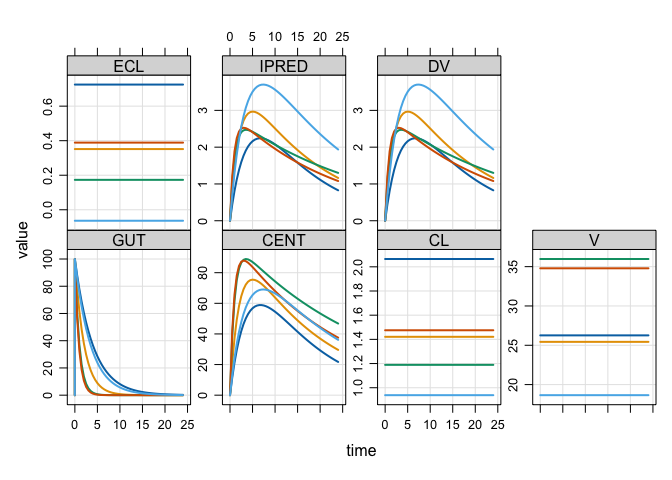
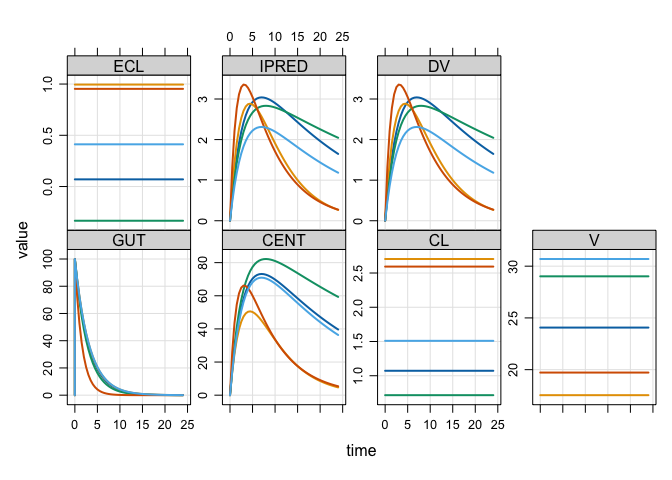
readme

diff --git a/README.md b/README.md
@@ -42,14 +42,14 @@ out
 . Dim  : 50,000 9
 . Files: 1 [1.9 Mb]
 .     ID time       GUT     CENT       CL        V       ECL     IPRED        DV
-. 1:   1  0.0   0.00000  0.00000 2.064612 26.25991 0.7249425 0.0000000 0.0000000
-. 2:   1  0.0 100.00000  0.00000 2.064612 26.25991 0.7249425 0.0000000 0.0000000
-. 3:   1  0.5  88.21274 11.55383 2.064612 26.25991 0.7249425 0.4399798 0.4399798
-. 4:   1  1.0  77.81488 21.30040 2.064612 26.25991 0.7249425 0.8111376 0.8111376
-. 5:   1  1.5  68.64264 29.46990 2.064612 26.25991 0.7249425 1.1222393 1.1222393
-. 6:   1  2.0  60.55156 36.26473 2.064612 26.25991 0.7249425 1.3809925 1.3809925
-. 7:   1  2.5  53.41419 41.86281 2.064612 26.25991 0.7249425 1.5941720 1.5941720
-. 8:   1  3.0  47.11812 46.42045 2.064612 26.25991 0.7249425 1.7677308 1.7677308
+. 1:   1  0.0   0.00000  0.00000 1.072391 24.06577 0.0698906 0.0000000 0.0000000
+. 2:   1  0.0 100.00000  0.00000 1.072391 24.06577 0.0698906 0.0000000 0.0000000
+. 3:   1  0.5  84.78394 15.04319 1.072391 24.06577 0.0698906 0.6250866 0.6250866
+. 4:   1  1.0  71.88317 27.46594 1.072391 24.06577 0.0698906 1.1412864 1.1412864
+. 5:   1  1.5  60.94538 37.67428 1.072391 24.06577 0.0698906 1.5654713 1.5654713
+. 6:   1  2.0  51.67190 46.01229 1.072391 24.06577 0.0698906 1.9119390 1.9119390
+. 7:   1  2.5  43.80947 52.77156 1.072391 24.06577 0.0698906 2.1928054 2.1928054
+. 8:   1  3.0  37.14339 58.19913 1.072391 24.06577 0.0698906 2.4183361 2.4183361
 ```
 
 The output object doesn’t actually carry the simulated data, but rather
@@ -57,7 +57,7 @@ a pointer to the data in parquet files on your disk.
 
 ``` r
 out$files
-. [1] "/private/var/folders/zv/v6tkdhrn1_bb1ndrc0c0j31w0000gp/T/Rtmp84CDe9/mrgsims-ds-74a86ffd2ab7.parquet"
+. [1] "/private/var/folders/zv/v6tkdhrn1_bb1ndrc0c0j31w0000gp/T/RtmpwbZdoE/mrgsims-ds-764077a82b63.parquet"
 ```
 
 But, we can do a lot of the typical things we would with any mrgsim
@@ -72,24 +72,24 @@ plot(out)
 ``` r
 head(out)
 . # A tibble: 6 × 9
-.      ID  time   GUT  CENT    CL     V   ECL IPRED    DV
-.   <dbl> <dbl> <dbl> <dbl> <dbl> <dbl> <dbl> <dbl> <dbl>
-. 1     1   0     0     0    2.06  26.3 0.725 0     0    
-. 2     1   0   100     0    2.06  26.3 0.725 0     0    
-. 3     1   0.5  88.2  11.6  2.06  26.3 0.725 0.440 0.440
-. 4     1   1    77.8  21.3  2.06  26.3 0.725 0.811 0.811
-. 5     1   1.5  68.6  29.5  2.06  26.3 0.725 1.12  1.12 
-. 6     1   2    60.6  36.3  2.06  26.3 0.725 1.38  1.38
+.      ID  time   GUT  CENT    CL     V    ECL IPRED    DV
+.   <dbl> <dbl> <dbl> <dbl> <dbl> <dbl>  <dbl> <dbl> <dbl>
+. 1     1   0     0     0    1.07  24.1 0.0699 0     0    
+. 2     1   0   100     0    1.07  24.1 0.0699 0     0    
+. 3     1   0.5  84.8  15.0  1.07  24.1 0.0699 0.625 0.625
+. 4     1   1    71.9  27.5  1.07  24.1 0.0699 1.14  1.14 
+. 5     1   1.5  60.9  37.7  1.07  24.1 0.0699 1.57  1.57 
+. 6     1   2    51.7  46.0  1.07  24.1 0.0699 1.91  1.91
 tail(out)
 . # A tibble: 6 × 9
-.      ID  time      GUT  CENT    CL     V    ECL IPRED    DV
-.   <dbl> <dbl>    <dbl> <dbl> <dbl> <dbl>  <dbl> <dbl> <dbl>
-. 1  1000  21.5 1.08e-10  56.5 0.842  30.5 -0.172  1.85  1.85
-. 2  1000  22   5.70e-11  55.7 0.842  30.5 -0.172  1.82  1.82
-. 3  1000  22.5 3.00e-11  55.0 0.842  30.5 -0.172  1.80  1.80
-. 4  1000  23   1.58e-11  54.2 0.842  30.5 -0.172  1.77  1.77
-. 5  1000  23.5 8.33e-12  53.5 0.842  30.5 -0.172  1.75  1.75
-. 6  1000  24   4.39e-12  52.7 0.842  30.5 -0.172  1.73  1.73
+.      ID  time      GUT  CENT    CL     V   ECL IPRED    DV
+.   <dbl> <dbl>    <dbl> <dbl> <dbl> <dbl> <dbl> <dbl> <dbl>
+. 1  1000  21.5 2.93e- 9  75.5 0.227  16.6 -1.48  4.53  4.53
+. 2  1000  22   1.67e- 9  75.0 0.227  16.6 -1.48  4.50  4.50
+. 3  1000  22.5 9.48e-10  74.4 0.227  16.6 -1.48  4.47  4.47
+. 4  1000  23   5.39e-10  73.9 0.227  16.6 -1.48  4.44  4.44
+. 5  1000  23.5 3.07e-10  73.4 0.227  16.6 -1.48  4.41  4.41
+. 6  1000  24   1.75e-10  72.9 0.227  16.6 -1.48  4.38  4.38
 dim(out)
 . [1] 50000     9
 ```
@@ -100,18 +100,18 @@ usual R data frames
 ``` r
 as_tibble(out)
 . # A tibble: 50,000 × 9
-.       ID  time   GUT  CENT    CL     V   ECL IPRED    DV
-.    <dbl> <dbl> <dbl> <dbl> <dbl> <dbl> <dbl> <dbl> <dbl>
-.  1     1   0     0     0    2.06  26.3 0.725 0     0    
-.  2     1   0   100     0    2.06  26.3 0.725 0     0    
-.  3     1   0.5  88.2  11.6  2.06  26.3 0.725 0.440 0.440
-.  4     1   1    77.8  21.3  2.06  26.3 0.725 0.811 0.811
-.  5     1   1.5  68.6  29.5  2.06  26.3 0.725 1.12  1.12 
-.  6     1   2    60.6  36.3  2.06  26.3 0.725 1.38  1.38 
-.  7     1   2.5  53.4  41.9  2.06  26.3 0.725 1.59  1.59 
-.  8     1   3    47.1  46.4  2.06  26.3 0.725 1.77  1.77 
-.  9     1   3.5  41.6  50.1  2.06  26.3 0.725 1.91  1.91 
-. 10     1   4    36.7  52.9  2.06  26.3 0.725 2.02  2.02 
+.       ID  time   GUT  CENT    CL     V    ECL IPRED    DV
+.    <dbl> <dbl> <dbl> <dbl> <dbl> <dbl>  <dbl> <dbl> <dbl>
+.  1     1   0     0     0    1.07  24.1 0.0699 0     0    
+.  2     1   0   100     0    1.07  24.1 0.0699 0     0    
+.  3     1   0.5  84.8  15.0  1.07  24.1 0.0699 0.625 0.625
+.  4     1   1    71.9  27.5  1.07  24.1 0.0699 1.14  1.14 
+.  5     1   1.5  60.9  37.7  1.07  24.1 0.0699 1.57  1.57 
+.  6     1   2    51.7  46.0  1.07  24.1 0.0699 1.91  1.91 
+.  7     1   2.5  43.8  52.8  1.07  24.1 0.0699 2.19  2.19 
+.  8     1   3    37.1  58.2  1.07  24.1 0.0699 2.42  2.42 
+.  9     1   3.5  31.5  62.5  1.07  24.1 0.0699 2.60  2.60 
+. 10     1   4    26.7  65.9  1.07  24.1 0.0699 2.74  2.74 
 . # ℹ 49,990 more rows
 ```
 
@@ -158,15 +158,15 @@ collect(dd)
 .     time Median
 .    <dbl>  <dbl>
 .  1   0    0    
-.  2   0.5  0.926
-.  3   1    1.59 
-.  4   1.5  2.07 
-.  5   2    2.43 
-.  6   2.5  2.69 
-.  7   3    2.85 
-.  8   3.5  2.94 
-.  9  16.5  2.13 
-. 10  17.5  2.05 
+.  2   0.5  0.885
+.  3   1    1.55 
+.  4   1.5  2.04 
+.  5   2    2.38 
+.  6   2.5  2.61 
+.  7   3    2.76 
+.  8   3.5  2.87 
+.  9  16.5  2.10 
+. 10  17.5  2.01 
 . # ℹ 39 more rows
 ```
 
@@ -189,15 +189,15 @@ out2
 . Model: popex
 . Dim  : 500.0K 9
 . Files: 10 [18.9 Mb]
-.     ID time       GUT     CENT        CL        V        ECL    IPRED       DV
-. 1:   1  0.0   0.00000  0.00000 0.7738041 20.88353 -0.2564365 0.000000 0.000000
-. 2:   1  0.0 100.00000  0.00000 0.7738041 20.88353 -0.2564365 0.000000 0.000000
-. 3:   1  0.5  85.17372 14.68615 0.7738041 20.88353 -0.2564365 0.703241 0.703241
-. 4:   1  1.0  72.54562 26.92531 0.7738041 20.88353 -0.2564365 1.289309 1.289309
-. 5:   1  1.5  61.78980 37.08523 0.7738041 20.88353 -0.2564365 1.775812 1.775812
-. 6:   1  2.0  52.62867 45.47903 0.7738041 20.88353 -0.2564365 2.177747 2.177747
-. 7:   1  2.5  44.82579 52.37334 0.7738041 20.88353 -0.2564365 2.507878 2.507878
-. 8:   1  3.0  38.17979 57.99515 0.7738041 20.88353 -0.2564365 2.777077 2.777077
+.     ID time       GUT     CENT       CL        V       ECL    IPRED       DV
+. 1:   1  0.0   0.00000  0.00000 1.323299 15.42988 0.2801279 0.000000 0.000000
+. 2:   1  0.0 100.00000  0.00000 1.323299 15.42988 0.2801279 0.000000 0.000000
+. 3:   1  0.5  70.76088 28.58579 1.323299 15.42988 0.2801279 1.852625 1.852625
+. 4:   1  1.0  50.07102 47.61347 1.323299 15.42988 0.2801279 3.085796 3.085796
+. 5:   1  1.5  35.43069 59.92811 1.323299 15.42988 0.2801279 3.883899 3.883899
+. 6:   1  2.0  25.07107 67.54079 1.323299 15.42988 0.2801279 4.377272 4.377272
+. 7:   1  2.5  17.74051 71.87256 1.323299 15.42988 0.2801279 4.658010 4.658010
+. 8:   1  3.0  12.55334 73.92700 1.323299 15.42988 0.2801279 4.791157 4.791157
 ```
 
 All arrow files are stored in the tempdir in parquet format
@@ -205,11 +205,11 @@ All arrow files are stored in the tempdir in parquet format
 ``` r
 list_temp()
 . 11 files [20.8 Mb]
-. - mrgsims-ds-74a86ffd2ab7.parquet
-. - mrgsims-ds-74fa2e62a152.parquet
+. - mrgsims-ds-764077a82b63.parquet
+. - mrgsims-ds-767d41ce9a67.parquet
 .    ...
-. - mrgsims-ds-74fb50448f34.parquet
-. - mrgsims-ds-74fb58f1b0ee.parquet
+. - mrgsims-ds-767e4ce3313d.parquet
+. - mrgsims-ds-767e5e4ca85f.parquet
 ```
 
 This directory is eventually removed when the R session ends. Tools are
@@ -218,13 +218,14 @@ provided to manage the space.
 ``` r
 retain_temp(out2)
 . Discarding 1 files.
+
 list_temp()
 . 10 files [18.9 Mb]
-. - mrgsims-ds-74fa2e62a152.parquet
-. - mrgsims-ds-74fa30c69370.parquet
+. - mrgsims-ds-767d41ce9a67.parquet
+. - mrgsims-ds-767d4938775a.parquet
 .    ...
-. - mrgsims-ds-74fb50448f34.parquet
-. - mrgsims-ds-74fb58f1b0ee.parquet
+. - mrgsims-ds-767e4ce3313d.parquet
+. - mrgsims-ds-767e5e4ca85f.parquet
 ```
 
 We also put a finalizer on each object so that, when it goes out of
@@ -255,6 +256,7 @@ list_temp()
 .    ...
 . - mrgsims-ds-out2-0010.parquet
 . - mrgsims-ds-out3-0001.parquet
+
 rm(out2)
 ```
 
@@ -264,8 +266,9 @@ cleaned up.
 ``` r
 gc()
 .           used (Mb) gc trigger  (Mb) limit (Mb) max used  (Mb)
-. Ncells 1695816 90.6    2912034 155.6         NA  2912034 155.6
-. Vcells 3106005 23.7    8388608  64.0      16384  6728335  51.4
+. Ncells 1695819 90.6    2912040 155.6         NA  2912040 155.6
+. Vcells 3106010 23.7    8388608  64.0      16384  6728500  51.4
+
 list_temp()
 . 2 files [3.8 Mb]
 . - mrgsims-ds-out1-0001.parquet
